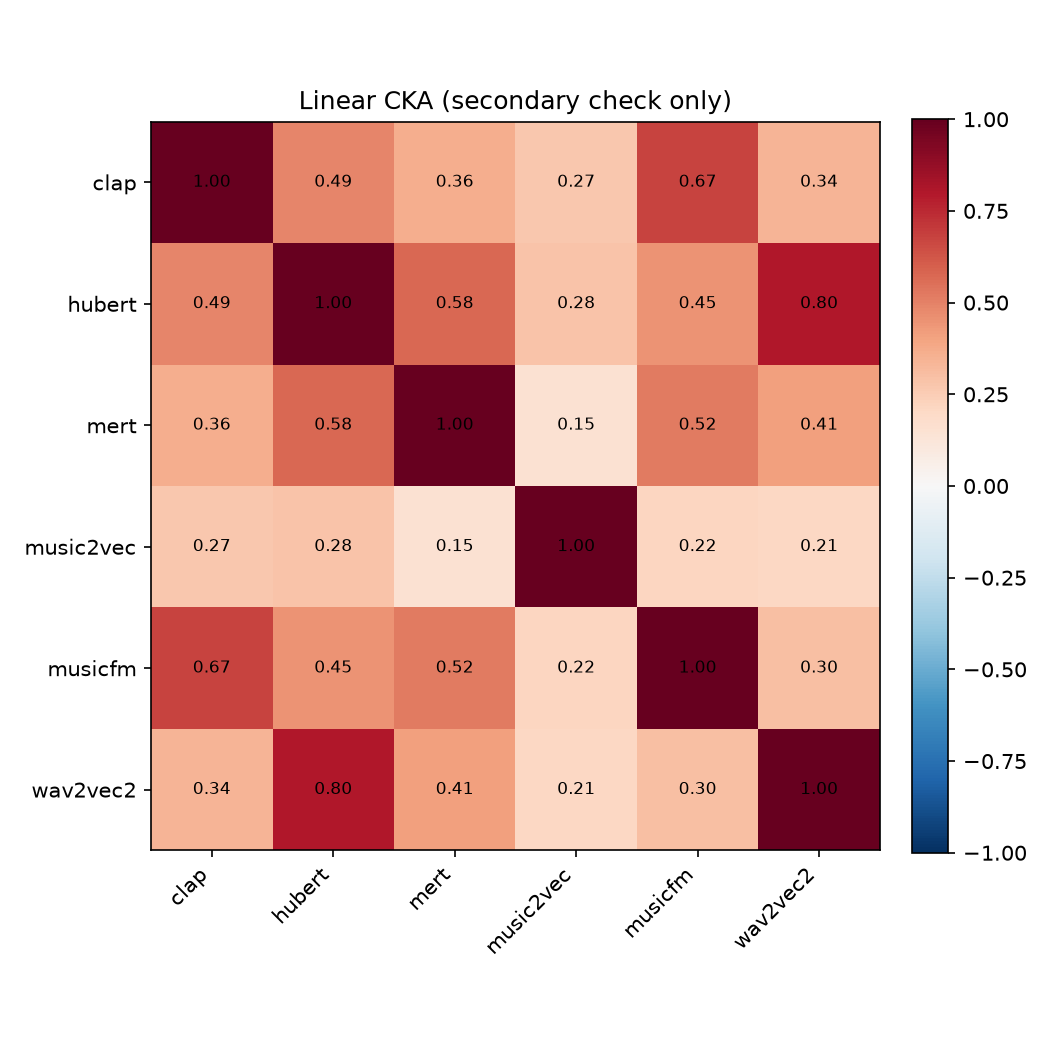
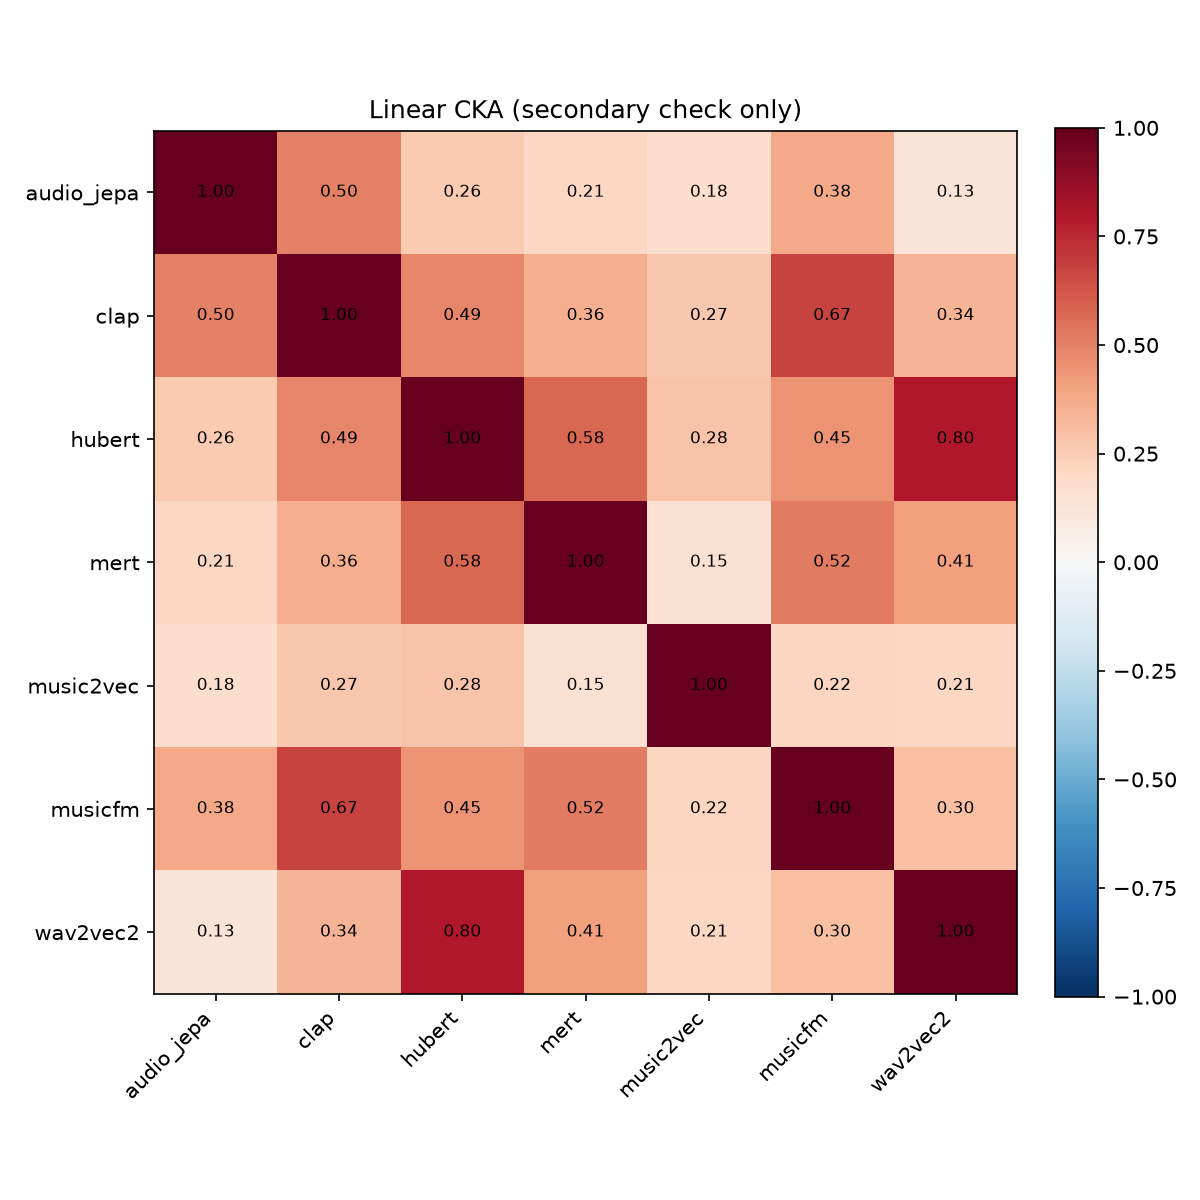
7-model Phase 1 results: audio_jepa cohesion prediction confirmed
RSA/CKA/intrinsic-dimension re-run with audio_jepa added (2000/category,
10,000 clips). Key result: the paper-grounded cohesion prediction from the
2026-08-09 correction entry held on both fronts specified in advance --
audio_jepa has the lowest TwoNN intrinsic dimension of all 7 models
(10.82, vs 11.5-21.5 for the rest) and by far the tightest within-category
clustering (inspect_geometry.py: within=0.062 vs hubert's 0.256 and
music2vec's 0.161), with music sitting as a stark outlier category.

Unlike music2vec, audio_jepa is not RSA-isolated: audio_jepa<->clap=0.54
is the single strongest pair in the entire matrix (edging out
mert<->musicfm's 0.51), while audio_jepa<->wav2vec2=-0.08 and
audio_jepa<->hubert=0.02 show it's essentially decorrelated from the
speech-specialized models specifically.

H1 (mutual agreement among JEPA-family models) still isn't testable --
one working JEPA-family checkpoint, not two -- but that one data point now
has a real, non-confounded-looking signature worth reporting.

diff --git a/journal.md b/journal.md
@@ -65,3 +65,17 @@
 - **Corrected everywhere the mislabel appeared**: `CLAUDE.md`'s candidate-model table and H1 statement (both annotated in place with correction notes, not silently rewritten), `audio_comp/models/music2vec.py`'s `ModelInfo.paradigm` field and docstring, `README.md`'s model table. Did NOT rewrite earlier journal entries above that say "JEPA-family" for music2vec — journal is append-only per CLAUDE.md's own convention; this entry is the correction of record.
 - **New confound documented for future work**: `ltuncay/Audio-JEPA` is trained on meaningfully less compute than the other active teachers (100k steps, ~14h on 4 V100s, 5,338h AudioSet vs. wav2vec2/data2vec's 400k steps on larger batches), and its own paper reports it substantially underperforming both baselines on several linear-probe tasks (e.g. Speech Commands V1: 0.152 vs. data2vec's 0.927). If it comes back RSA-isolated once wired up, that's confounded between "JEPA-paradigm geometry is genuinely different" and "this checkpoint is comparatively undertrained" — RSA alone can't tell them apart. Documented directly in `audio_comp/models/audio_jepa.py`'s docstring so it's visible right where the loader gets implemented.
 - **A specific, testable prediction for later**: the Audio-JEPA paper states its objective favors embedding cohesion over linear separability (strong kNN, weak linear probe on the same tasks) — predicting a *low* TwoNN intrinsic dimension and/or unusually tight within-category clustering once run through `inspect_geometry.py`. This is the opposite direction from music2vec, which had the *highest* ID of the six active models. A low-ID/high-cohesion result for `audio_jepa` would be real, paper-grounded evidence for paradigm-driven geometry differences — meaningfully stronger than an unexplained isolated RSA number. Not run yet — `audio_jepa` still needs its loader wired up first.
+
+## 2026-08-09 (cont'd) — audio_jepa wired up, cohesion prediction confirmed
+
+- User: "we will still treat the second version of audio-jepa as a JEPA model, lets see how it turns out. proceed." Wired up the real loader rather than the originally-assumed Hydra/Lightning reconstruction path — the HF repo (`ltuncay/Audio-JEPA`) ships an author-provided `inference_example.py` alongside `config.json`, both first-party and mutually corroborating every architecture constant. Loads `VisionTransformer` standalone, restores only the `encoder.*` keys from `JEPA.ckpt`'s state dict (predictor + target_encoder discarded per the model's own config.json: "Only the encoder is used downstream"), `load_state_dict(strict=True)` — 0 missing, 0 unexpected keys.
+- `vision_transformer.py`'s `Block` unconditionally imports `flash_attn.modules.mha.MHA` (compiled CUDA extension) regardless of `use_flash_attn`. Ported the HF repo's own portable shim: a `torch.nn.functional.scaled_dot_product_attention`-based module matching the checkpoint's `qkv`/`proj` parameter names — no flash-attn build needed, and SDPA gets CUDA-optimized kernels automatically on GPU (not just a CPU fallback).
+- **Self-inflicted regression caught and fixed**: before finding the shim, tried installing the real `flash_attn` package to see if that path was simpler. `pip install flash_attn` silently downgraded `torch` 2.11.0 → 2.9.1 as a dependency-resolution side effect (flash_attn's wheel required `torch~=2.9.0`), breaking ABI compatibility with `torchaudio`/`torchcodec`/`torchvision` — would have quietly broken every other model's pipeline. Caught via the next adapter test failing on an unrelated `torchaudio` import error, traced to the version bump, fixed by uninstalling `flash_attn` (unneeded — the shim replaces it) and reinstalling `torch==2.11.0` exactly. Full test suite green afterward.
+- **Second real bug, only visible at full scale**: `kaldi.fbank`'s fixed ~98ms analysis window needs the input waveform at least that long; some real probe-set clips (brief UrbanSound8K events, one as short as ~60ms) are shorter, crashing the first full Slurm run. The CPU smoke test before that used a 5s dummy waveform and didn't catch it. Fixed by padding short waveforms to the model's designed 10s input before spectrogram computation.
+- Moved `audio_jepa` from `deferred_models` to `active_models`; updated `test_model_adapters.py`'s `DEFERRED_MODELS` (now just `beats`) accordingly. All 7 models now extracted on the full 2000/category (10,000-clip) probe set.
+- **Result — the cohesion prediction held, on both fronts specified in advance**:
+  - TwoNN intrinsic dimension: **10.82, the lowest of all 7 models** (range 11.5–21.5 for the rest; music2vec highest at 21.5 — opposite end from audio_jepa).
+  - `inspect_geometry.py`: within-category mean distance **0.062**, far tighter than hubert (0.256) or music2vec (0.161) — driven by bird/city/ship/speech clustering extremely tightly (diagonal 0.02–0.06) while music sits as a stark outlier (0.42–0.50 from every other category, including its own category average of 0.18). Separation index 1.36, highest of the three models checked this way.
+  - This is a real, paper-grounded signature (low ID + tight within-category clustering matching the paper's own stated kNN-vs-linear-probe cohesion claim), not an unexplained number — the disambiguation this project's own tooling was built to enable.
+- **Unlike music2vec, audio_jepa is NOT RSA-isolated from the other models.** RSA: audio_jepa↔clap = 0.54 (the single strongest pair in the entire 7-model matrix, edging out mert↔musicfm's 0.51), ↔musicfm = 0.42, ↔mert = 0.24, ↔music2vec = 0.20, ↔hubert = 0.02, ↔wav2vec2 = **-0.08** (essentially zero/slightly negative). CKA shows the same pattern (clap 0.50 highest, wav2vec2 0.13 lowest). So: audio_jepa aligns moderately with the music/general-audio cluster (clap, musicfm, mert) while being essentially decorrelated from the two speech-specialized masked-modeling models — a genuinely different relationship to the rest of the roster than either music2vec's flat isolation or hubert/wav2vec2's tight mutual pairing.
+- H1 as originally phrased (mutual agreement *among* JEPA-family models) is still not testable — there is exactly one working JEPA-family model (`audio_jepa`) in the comparison, not two. But that one data point now has a distinctive, paper-predicted, non-confounded-looking signature (the compute/undertraining confound doesn't obviously explain a *low*-ID, high-cohesion result the way it might explain a merely-isolated one) worth carrying into any write-up as a real finding, not just a caveat.
